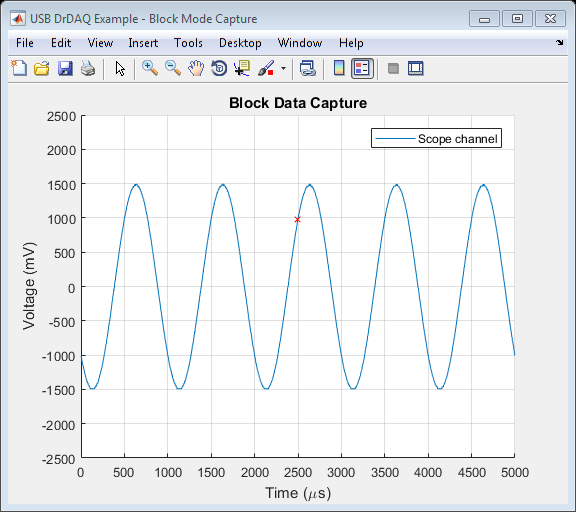
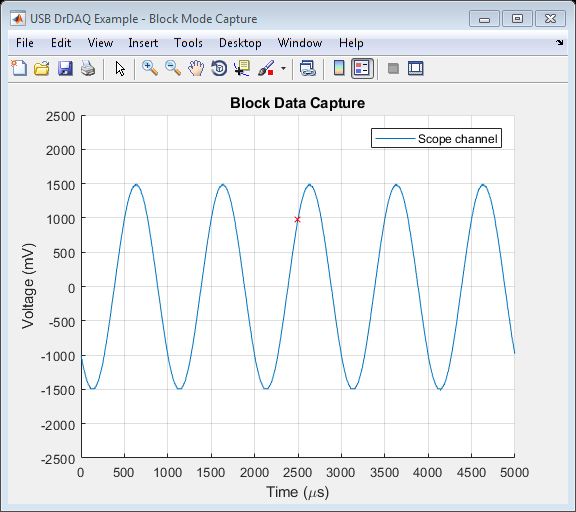
Update and republish block example

diff --git a/help/html/USBDrDAQBlockExample.html b/help/html/USBDrDAQBlockExample.html
@@ -6,7 +6,7 @@
    <!--
 This HTML was auto-generated from MATLAB code.
 To make changes, update the MATLAB code and republish this document.
-      --><title>USB DrDAQ Block Data Capture Example</title><meta name="generator" content="MATLAB 9.2"><link rel="schema.DC" href="http://purl.org/dc/elements/1.1/"><meta name="DC.date" content="2017-06-15"><meta name="DC.source" content="USBDrDAQBlockExample.m"><style type="text/css">
+      --><title>USB DrDAQ Block Data Capture Example</title><meta name="generator" content="MATLAB 9.3"><link rel="schema.DC" href="http://purl.org/dc/elements/1.1/"><meta name="DC.date" content="2017-12-21"><meta name="DC.source" content="USBDrDAQBlockExample.m"><style type="text/css">
 html,body,div,span,applet,object,iframe,h1,h2,h3,h4,h5,h6,p,blockquote,pre,a,abbr,acronym,address,big,cite,code,del,dfn,em,font,img,ins,kbd,q,s,samp,small,strike,strong,sub,sup,tt,var,b,u,i,center,dl,dt,dd,ol,ul,li,fieldset,form,label,legend,table,caption,tbody,tfoot,thead,tr,th,td{margin:0;padding:0;border:0;outline:0;font-size:100%;vertical-align:baseline;background:transparent}body{line-height:1}ol,ul{list-style:none}blockquote,q{quotes:none}blockquote:before,blockquote:after,q:before,q:after{content:'';content:none}:focus{outine:0}ins{text-decoration:none}del{text-decoration:line-through}table{border-collapse:collapse;border-spacing:0}
 
 html { min-height:100%; margin-bottom:1px; }
@@ -66,14 +66,16 @@ table td { padding:7px 5px; text-align:left; vertical-align:top; border:1px soli
 
 
 
-  </style></head><body><div class="content"><h1>USB DrDAQ Block Data Capture Example</h1><!--introduction--><p>This is a MATLAB script that demonstrates how to use the usbdrdaq shared library API functions to capture a block of data from a USB DrDAQ data logger using the following approach:</p><div><ul><li>Loading the shared library</li><li>Open a unit</li><li>Display unit information</li><li>Set up an input channel</li><li>Specify the sampling interval</li><li>Setup a trigger</li><li>Output a signal from the signal generator</li><li>Collect a block of data</li><li>Retrieve the data values and convert to millivolts</li><li>Plot data</li><li>Close the unit</li><li>Unload the shared library</li></ul></div><p>To run the script, type the name of the file, USBDrDAQ_example, at the MATLAB command prompt.</p><p>The file, USBDrDAQExample.m must be on your MATLAB PATH. For additional information on setting your MATLAB PATH, type 'help addpath' at the MATLAB command prompt.</p><p>Description: Demonstrates how to call simple functions in order to use setup a USB DrDAQ data logger and capture some data.</p><p>Copyright: &copy; 2014-2017 Pico Technology Ltd. See LICENSE file for terms.</p><!--/introduction--><h2>Contents</h2><div><ul><li><a href="#1">Clear Command Line and Close Any Figures</a></li><li><a href="#2">Load Configuration Information</a></li><li><a href="#3">Define any parameters required later on</a></li><li><a href="#4">Load the Shared Library</a></li><li><a href="#5">Open the Device</a></li><li><a href="#6">Display Unit Information</a></li><li><a href="#7">Set the sampling interval</a></li><li><a href="#8">Find scaling information</a></li><li><a href="#9">Set channel scaling</a></li><li><a href="#10">Set trigger</a></li><li><a href="#11">Prompt to connect Sig Gen output to Scope channel</a></li><li><a href="#12">Start signal generator</a></li><li><a href="#13">Start data collection</a></li><li><a href="#14">Retrieve data values</a></li><li><a href="#15">Process data</a></li><li><a href="#16">Reset the ready flag if another block capture is required</a></li><li><a href="#17">Stop the signal generator</a></li><li><a href="#18">Stop the device</a></li><li><a href="#19">Close Unit</a></li><li><a href="#20">Unload Shared Library</a></li></ul></div><h2 id="1">Clear Command Line and Close Any Figures</h2><pre class="codeinput">clc;
+  </style></head><body><div class="content"><h1>USB DrDAQ Block Data Capture Example</h1><!--introduction--><p>This is a MATLAB script that demonstrates how to use the usbdrdaq shared library API functions to capture a block of data from a USB DrDAQ data logger using the following approach:</p><div><ul><li>Loading the shared library</li><li>Open a unit</li><li>Display unit information</li><li>Set up an input channel</li><li>Specify the sampling interval</li><li>Setup a trigger</li><li>Output a signal from the signal generator</li><li>Collect a block of data</li><li>Retrieve the data values and convert to millivolts</li><li>Plot data</li><li>Close the unit</li><li>Unload the shared library</li></ul></div><p>To run the script, type the name of the file, USBDrDAQ_example, at the MATLAB command prompt.</p><p>The file, USBDrDAQExample.m must be on your MATLAB PATH. For additional information on setting your MATLAB PATH, type 'help addpath' at the MATLAB command prompt.</p><p>Description: Demonstrates how to call simple functions in order to use setup a USB DrDAQ data logger and capture some data.</p><p>Copyright: &copy; 2014-2017 Pico Technology Ltd. See LICENSE file for terms.</p><!--/introduction--><h2>Contents</h2><div><ul><li><a href="#1">Clear command line and workspace and close any figures</a></li><li><a href="#2">Load configuration information</a></li><li><a href="#3">Define any parameters required later on</a></li><li><a href="#4">Load the shared library</a></li><li><a href="#5">Open the device</a></li><li><a href="#6">Display unit information</a></li><li><a href="#7">Set the sampling interval</a></li><li><a href="#8">Find scaling information</a></li><li><a href="#9">Set channel scaling</a></li><li><a href="#10">Set trigger</a></li><li><a href="#11">Prompt to connect Sig Gen output to Scope channel</a></li><li><a href="#12">Start signal generator</a></li><li><a href="#13">Start data collection</a></li><li><a href="#14">Retrieve data values</a></li><li><a href="#15">Process data</a></li><li><a href="#16">Reset the ready flag if another block capture is required</a></li><li><a href="#17">Stop the signal generator</a></li><li><a href="#18">Stop the device</a></li><li><a href="#19">Close unit</a></li><li><a href="#20">Unload shared library</a></li></ul></div><h2 id="1">Clear command line and workspace and close any figures</h2><pre class="codeinput">clc;
+clear;
 close <span class="string">all</span>;
-</pre><h2 id="2">Load Configuration Information</h2><pre class="codeinput">USBDrDAQConfig;
-</pre><h2 id="3">Define any parameters required later on</h2><pre class="codeinput">USBDRDAQ_SCOPE_INPUTS_MV = [1250, 2500, 5000, 10000]; <span class="comment">% Scope channel input ranges</span>
-</pre><h2 id="4">Load the Shared Library</h2><pre class="codeinput">fprintf(<span class="string">'USB DrDAQ Block Capture Example\n'</span>);
-fprintf(<span class="string">'Copyright &copy; 2014-2017 Pico Technology Ltd. See LICENSE file for terms.\n\n'</span>);
 
-archStr = computer(<span class="string">'arch'</span>);
+fprintf(<span class="string">'USB DrDAQ Block Capture Example\n\n'</span>);
+</pre><pre class="codeoutput">USB DrDAQ Block Capture Example
+
+</pre><h2 id="2">Load configuration information</h2><pre class="codeinput">USBDrDAQConfig;
+</pre><h2 id="3">Define any parameters required later on</h2><pre class="codeinput">USBDRDAQ_SCOPE_INPUTS_MV = [1250, 2500, 5000, 10000]; <span class="comment">% Scope channel input ranges</span>
+</pre><h2 id="4">Load the shared library</h2><pre class="codeinput">archStr = computer(<span class="string">'arch'</span>);
 
 usbDrDaqMFile = str2func(strcat(<span class="string">'usbdrdaqMFile_'</span>, archStr));
 
@@ -86,7 +88,7 @@ usbDrDaqMFile = str2func(strcat(<span class="string">'usbdrdaqMFile_'</span>, ar
     <span class="keyword">elseif</span> ismac()
 
         error(<span class="string">'USBDrDAQBlockExample:OSNotSupported'</span>, <span class="keyword">...</span>
-            <span class="string">'Mac OS X not supported, please contact Pico Technology Technical Support for further assistance.'</span>);
+            <span class="string">'macOS not supported, please contact Pico Technology Technical Support for further assistance.'</span>);
 
     <span class="keyword">elseif</span> isunix()
 
@@ -101,10 +103,7 @@ usbDrDaqMFile = str2func(strcat(<span class="string">'usbdrdaqMFile_'</span>, ar
     <span class="keyword">end</span>
 
 <span class="keyword">end</span>
-</pre><pre class="codeoutput">USB DrDAQ Block Capture Example
-Copyright &copy; 2014-2017 Pico Technology Ltd. See LICENSE file for terms.
-
-</pre><h2 id="5">Open the Device</h2><pre class="codeinput">pHandle = libpointer(<span class="string">'int16Ptr'</span>, 0);
+</pre><h2 id="5">Open the device</h2><pre class="codeinput">pHandle = libpointer(<span class="string">'int16Ptr'</span>, 0);
 
 [status.openUnit] = calllib(<span class="string">'usbdrdaq'</span>,<span class="string">'UsbDrDaqOpenUnit'</span>, pHandle);
 
@@ -116,7 +115,7 @@ handle = pHandle.Value;
     error(<span class="string">'USBDrDaqBlockExample:UnitNotOpened, Cannot open unit - status code: %d.'</span>, status.openUnit);
 
 <span class="keyword">end</span>
-</pre><h2 id="6">Display Unit Information</h2><pre class="codeinput">infoStr = blanks(100);
+</pre><h2 id="6">Display unit information</h2><pre class="codeinput">infoStr = blanks(100);
 requiredSize = length(infoStr);
 
  unitInfoDesc = {<span class="string">'Driver version: '</span>; <span class="string">'USB version: '</span>; <span class="string">'Hardware version: '</span>; <span class="string">'Variant: '</span>; <span class="keyword">...</span>
@@ -147,11 +146,12 @@ Cal. Date: 28Feb13
 Kernel version: PICOPP.SYS V1.0
 
 </pre><h2 id="7">Set the sampling interval</h2><pre class="codeinput">pMicrosecondsForBlock = libpointer(<span class="string">'singlePtr'</span>, 1000.0);
-idealNumberOfSamples = 5000;
+totalSamples = 5000;
 channels = [usbDrDaqEnuminfo.enUsbDrDaqInputs.USB_DRDAQ_CHANNEL_SCOPE];
 numberOfChannels = length(channels);
+numberOfSamplesPerChannel = totalSamples / numberOfChannels;
 
-[status.setIntervalF] = calllib(<span class="string">'usbdrdaq'</span>, <span class="string">'UsbDrDaqSetIntervalF'</span>, handle, pMicrosecondsForBlock, idealNumberOfSamples, <span class="keyword">...</span>
+[status.setIntervalF] = calllib(<span class="string">'usbdrdaq'</span>, <span class="string">'UsbDrDaqSetIntervalF'</span>, handle, pMicrosecondsForBlock, numberOfSamplesPerChannel, <span class="keyword">...</span>
 									channels, numberOfChannels);
 
 microsecondsForBlock = pMicrosecondsForBlock.Value;
@@ -177,7 +177,6 @@ fprintf(<span class="string">'Information for Scope channel:-\n\n'</span>);
 fprintf(<span class="string">'Number of scales: %d\n'</span>, numScales);
 fprintf(<span class="string">'Current scale: %d\n'</span>, currentScale);
 fprintf(<span class="string">'Names: \n\n%s\n'</span>, scalingNames);
-
 
 <span class="keyword">if</span> (status.getScalings ~= PicoStatus.PICO_OK)
 
@@ -208,7 +207,7 @@ status.setScalings = calllib(<span class="string">'usbdrdaq'</span>, <span class
 autoTrigger = 0; 		<span class="comment">% Re-arm the trigger</span>
 autoMs 		= 2000; 	<span class="comment">% Wait 2 seconds for trigger event, otherwise trigger automatically</span>
 direction 	= 0; 		<span class="comment">% Falling edge</span>
-threshold 	= 1000;        <span class="comment">% In ADC counts</span>
+threshold 	= 1000;     <span class="comment">% millivolts (refer to channel scaling)</span>
 hysteresis 	= 50;		<span class="comment">% In ADC counts</span>
 delay 		= -50.0; 	<span class="comment">% Place trigger event in middle of block</span>
 
@@ -242,7 +241,7 @@ status.setSigGenBuiltIn = calllib(<span class="string">'usbdrdaq'</span>,<span c
 
 method = usbDrDaqEnuminfo.e_BLOCK_METHOD.BM_SINGLE;
 
-status.run = calllib(<span class="string">'usbdrdaq'</span>, <span class="string">'UsbDrDaqRun'</span>, handle, idealNumberOfSamples, method);
+status.run = calllib(<span class="string">'usbdrdaq'</span>, <span class="string">'UsbDrDaqRun'</span>, handle, numberOfSamplesPerChannel, method);
 
 <span class="keyword">if</span> (status.run ~= PicoStatus.PICO_OK)
 
@@ -269,12 +268,12 @@ ready = 0;
 <span class="keyword">end</span>
 </pre><pre class="codeoutput">Starting data collection...
 Data collection complete.
-</pre><h2 id="14">Retrieve data values</h2><pre class="codeinput">pValues                 = libpointer(<span class="string">'singlePtr'</span>, zeros(idealNumberOfSamples, 1, <span class="string">'single'</span>));
-numSamplesPerChannel    = uint32(idealNumberOfSamples / numberOfChannels);
+</pre><h2 id="14">Retrieve data values</h2><pre class="codeinput">pValues                 = libpointer(<span class="string">'singlePtr'</span>, zeros(totalSamples, 1, <span class="string">'single'</span>));
+pSamplesPerChannel      = libpointer(<span class="string">'uint32Ptr'</span>, numberOfSamplesPerChannel);
 pOverflow               = libpointer(<span class="string">'uint16Ptr'</span>, 0);
 pTriggerIndex           = libpointer(<span class="string">'uint32Ptr'</span>, 0);
 
-[status.getValuesF, ~, numSamplesCollectedPerChannel] = calllib(<span class="string">'usbdrdaq'</span>, <span class="string">'UsbDrDaqGetValuesF'</span>, handle, pValues, numSamplesPerChannel, pOverflow, pTriggerIndex);
+[status.getValuesF, ~, ~, ~] = calllib(<span class="string">'usbdrdaq'</span>, <span class="string">'UsbDrDaqGetValuesF'</span>, handle, pValues, pSamplesPerChannel, pOverflow, pTriggerIndex);
 
 <span class="keyword">if</span> (status.getValuesF ~= PicoStatus.PICO_OK)
 
@@ -284,14 +283,15 @@ pTriggerIndex           = libpointer(<span class="string">'uint32Ptr'</span>, 0)
 
 <span class="keyword">end</span>
 
-values          = pValues.Value;
-overflow        = pOverflow.Value;
-triggerIndex    = pTriggerIndex.Value;
-</pre><h2 id="15">Process data</h2><p>Process the data as requried. In this example, we plot the scope channel data.</p><pre class="codeinput">disp(<span class="string">'Plotting data...'</span>);
+values                          = pValues.Value;
+numSamplesCollectedPerChannel   = pSamplesPerChannel.Value;
+overflow                        = pOverflow.Value;
+triggerIndex                    = pTriggerIndex.Value;
+</pre><h2 id="15">Process data</h2><p>Process the data as required. In this example, we plot the scope channel data.</p><pre class="codeinput">disp(<span class="string">'Plotting data...'</span>);
 
 <span class="comment">% Calculate time axis values - note that data collection is sequential</span>
 <span class="comment">% across all channels</span>
-samplingInterval = (idealNumberOfSamples / microsecondsForBlock);
+samplingInterval = (totalSamples / microsecondsForBlock);
 
 timeUs = double(samplingInterval * double(0:(numSamplesCollectedPerChannel * numberOfChannels) - 1));
 
@@ -342,8 +342,8 @@ hold <span class="string">off</span>;
 
 <span class="keyword">end</span>
 </pre><h2 id="18">Stop the device</h2><pre class="codeinput">[status.stop] = calllib(<span class="string">'usbdrdaq'</span>,<span class="string">'UsbDrDaqStop'</span>, handle);
-</pre><h2 id="19">Close Unit</h2><pre class="codeinput">[status.closeUnit] = calllib(<span class="string">'usbdrdaq'</span>,<span class="string">'UsbDrDaqCloseUnit'</span>, handle);
-</pre><h2 id="20">Unload Shared Library</h2><pre class="codeinput">unloadlibrary(<span class="string">'usbdrdaq'</span>);
+</pre><h2 id="19">Close unit</h2><pre class="codeinput">[status.closeUnit] = calllib(<span class="string">'usbdrdaq'</span>,<span class="string">'UsbDrDaqCloseUnit'</span>, handle);
+</pre><h2 id="20">Unload shared library</h2><pre class="codeinput">unloadlibrary(<span class="string">'usbdrdaq'</span>);
 
 <span class="keyword">if</span> (~libisloaded(<span class="string">'usbdrdaq'</span>))
 
@@ -355,7 +355,7 @@ hold <span class="string">off</span>;
 
 <span class="keyword">end</span>
 </pre><pre class="codeoutput">usbdrdaq library unloaded successfully.
-</pre><p class="footer"><br><a href="http://www.mathworks.com/products/matlab/">Published with MATLAB&reg; R2017a</a><br></p></div><!--
+</pre><p class="footer"><br><a href="http://www.mathworks.com/products/matlab/">Published with MATLAB&reg; R2017b</a><br></p></div><!--
 ##### SOURCE BEGIN #####
 %% USB DrDAQ Block Data Capture Example
 % This is a MATLAB script that demonstrates how to use the usbdrdaq shared
@@ -389,12 +389,15 @@ hold <span class="string">off</span>;
 % Copyright: © 2014-2017 Pico Technology Ltd. See LICENSE file for
 % terms.
 
-%% Clear Command Line and Close Any Figures
+%% Clear command line and workspace and close any figures
 
 clc;
+clear;
 close all;
 
-%% Load Configuration Information
+fprintf('USB DrDAQ Block Capture Example\n\n');
+
+%% Load configuration information
 
 USBDrDAQConfig;
 
@@ -402,10 +405,7 @@ USBDrDAQConfig;
 
 USBDRDAQ_SCOPE_INPUTS_MV = [1250, 2500, 5000, 10000]; % Scope channel input ranges
 
-%% Load the Shared Library
-
-fprintf('USB DrDAQ Block Capture Example\n');
-fprintf('Copyright © 2014-2017 Pico Technology Ltd. See LICENSE file for terms.\n\n');
+%% Load the shared library
 
 archStr = computer('arch');
 
@@ -420,7 +420,7 @@ if ~libisloaded('usbdrdaq')
     elseif ismac()
         
         error('USBDrDAQBlockExample:OSNotSupported', ...
-            'Mac OS X not supported, please contact Pico Technology Technical Support for further assistance.');
+            'macOS not supported, please contact Pico Technology Technical Support for further assistance.');
         
     elseif isunix()
         
@@ -436,7 +436,7 @@ if ~libisloaded('usbdrdaq')
 
 end
 
-%% Open the Device
+%% Open the device
 
 pHandle = libpointer('int16Ptr', 0);
 
@@ -451,7 +451,7 @@ if (status.openUnit ~= PicoStatus.PICO_OK)
     
 end
 
-%% Display Unit Information
+%% Display unit information
 
 infoStr = blanks(100);
 requiredSize = length(infoStr);
@@ -477,11 +477,12 @@ fprintf('\n');
 %% Set the sampling interval
 
 pMicrosecondsForBlock = libpointer('singlePtr', 1000.0);
-idealNumberOfSamples = 5000;
+totalSamples = 5000;
 channels = [usbDrDaqEnuminfo.enUsbDrDaqInputs.USB_DRDAQ_CHANNEL_SCOPE];
 numberOfChannels = length(channels);
+numberOfSamplesPerChannel = totalSamples / numberOfChannels;
 
-[status.setIntervalF] = calllib('usbdrdaq', 'UsbDrDaqSetIntervalF', handle, pMicrosecondsForBlock, idealNumberOfSamples, ...
+[status.setIntervalF] = calllib('usbdrdaq', 'UsbDrDaqSetIntervalF', handle, pMicrosecondsForBlock, numberOfSamplesPerChannel, ...
 									channels, numberOfChannels);
                                 
 microsecondsForBlock = pMicrosecondsForBlock.Value;
@@ -513,7 +514,6 @@ fprintf('Number of scales: %d\n', numScales);
 fprintf('Current scale: %d\n', currentScale);
 fprintf('Names: \n\n%s\n', scalingNames);
 
-
 if (status.getScalings ~= PicoStatus.PICO_OK)
     
     calllib('usbdrdaq','UsbDrDaqCloseUnit', handle);
@@ -542,7 +542,7 @@ enabled 	= PicoConstants.TRUE;
 autoTrigger = 0; 		% Re-arm the trigger
 autoMs 		= 2000; 	% Wait 2 seconds for trigger event, otherwise trigger automatically
 direction 	= 0; 		% Falling edge
-threshold 	= 1000;        % In ADC counts
+threshold 	= 1000;     % millivolts (refer to channel scaling)
 hysteresis 	= 50;		% In ADC counts
 delay 		= -50.0; 	% Place trigger event in middle of block
 
@@ -586,7 +586,7 @@ disp('Starting data collection...');
 
 method = usbDrDaqEnuminfo.e_BLOCK_METHOD.BM_SINGLE;
 
-status.run = calllib('usbdrdaq', 'UsbDrDaqRun', handle, idealNumberOfSamples, method);
+status.run = calllib('usbdrdaq', 'UsbDrDaqRun', handle, numberOfSamplesPerChannel, method);
 
 if (status.run ~= PicoStatus.PICO_OK)
    
@@ -614,12 +614,12 @@ end
 
 %% Retrieve data values
  
-pValues                 = libpointer('singlePtr', zeros(idealNumberOfSamples, 1, 'single'));
-numSamplesPerChannel    = uint32(idealNumberOfSamples / numberOfChannels);
+pValues                 = libpointer('singlePtr', zeros(totalSamples, 1, 'single'));
+pSamplesPerChannel      = libpointer('uint32Ptr', numberOfSamplesPerChannel);
 pOverflow               = libpointer('uint16Ptr', 0);
 pTriggerIndex           = libpointer('uint32Ptr', 0);
 
-[status.getValuesF, ~, numSamplesCollectedPerChannel] = calllib('usbdrdaq', 'UsbDrDaqGetValuesF', handle, pValues, numSamplesPerChannel, pOverflow, pTriggerIndex);
+[status.getValuesF, ~, ~, ~] = calllib('usbdrdaq', 'UsbDrDaqGetValuesF', handle, pValues, pSamplesPerChannel, pOverflow, pTriggerIndex);
 
 if (status.getValuesF ~= PicoStatus.PICO_OK)
    
@@ -629,19 +629,20 @@ if (status.getValuesF ~= PicoStatus.PICO_OK)
     
 end
 
-values          = pValues.Value;
-overflow        = pOverflow.Value;
-triggerIndex    = pTriggerIndex.Value;
+values                          = pValues.Value;
+numSamplesCollectedPerChannel   = pSamplesPerChannel.Value;
+overflow                        = pOverflow.Value;
+triggerIndex                    = pTriggerIndex.Value;
 
 %% Process data
-% Process the data as requried. In this example, we plot the scope channel 
+% Process the data as required. In this example, we plot the scope channel 
 % data.
 
 disp('Plotting data...');
 
 % Calculate time axis values - note that data collection is sequential
 % across all channels
-samplingInterval = (idealNumberOfSamples / microsecondsForBlock);
+samplingInterval = (totalSamples / microsecondsForBlock);
 
 timeUs = double(samplingInterval * double(0:(numSamplesCollectedPerChannel * numberOfChannels) - 1));
 
@@ -701,11 +702,11 @@ end
 
 [status.stop] = calllib('usbdrdaq','UsbDrDaqStop', handle);
 
-%% Close Unit
+%% Close unit
 
 [status.closeUnit] = calllib('usbdrdaq','UsbDrDaqCloseUnit', handle);
 
-%% Unload Shared Library
+%% Unload shared library
 
 unloadlibrary('usbdrdaq');
 
